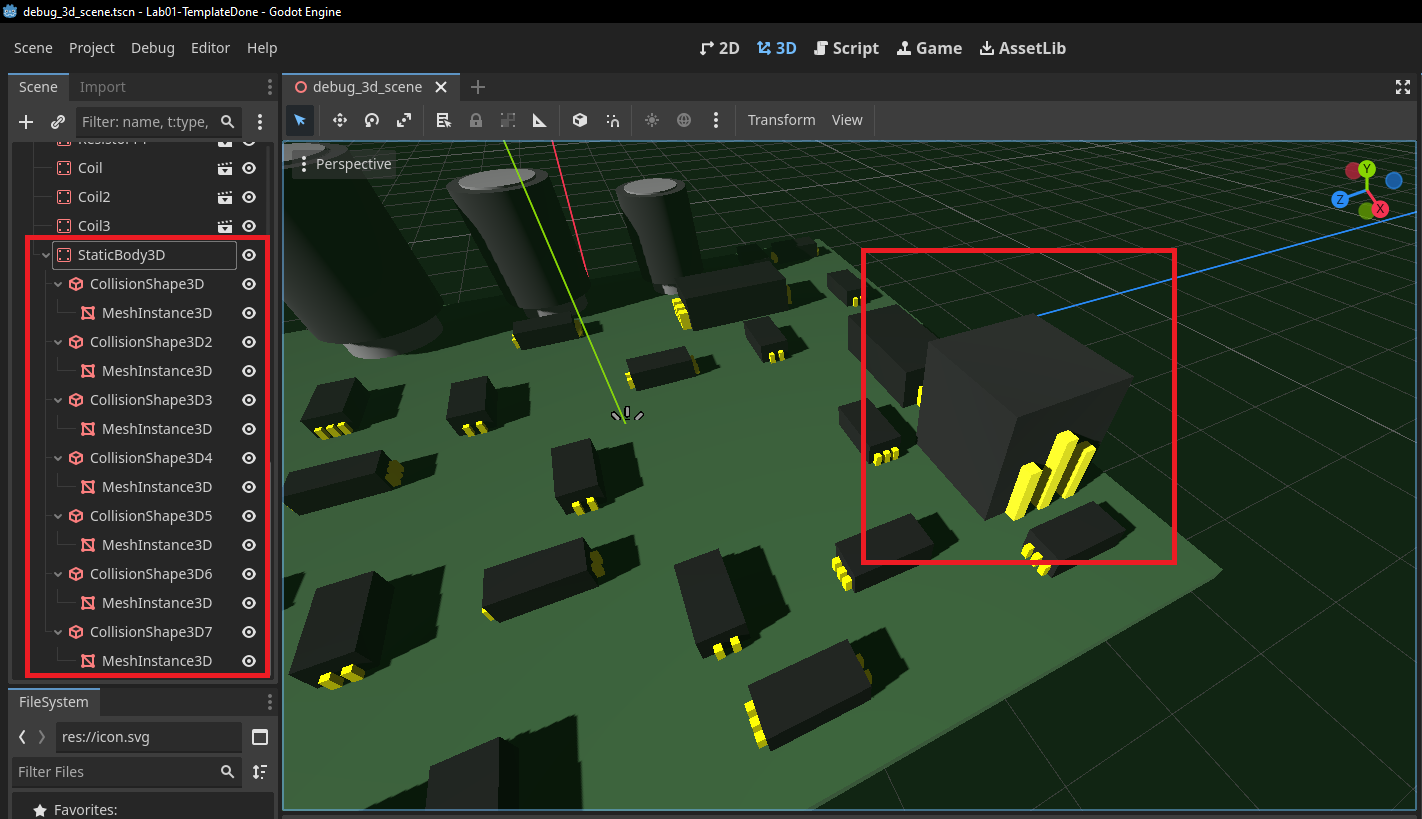
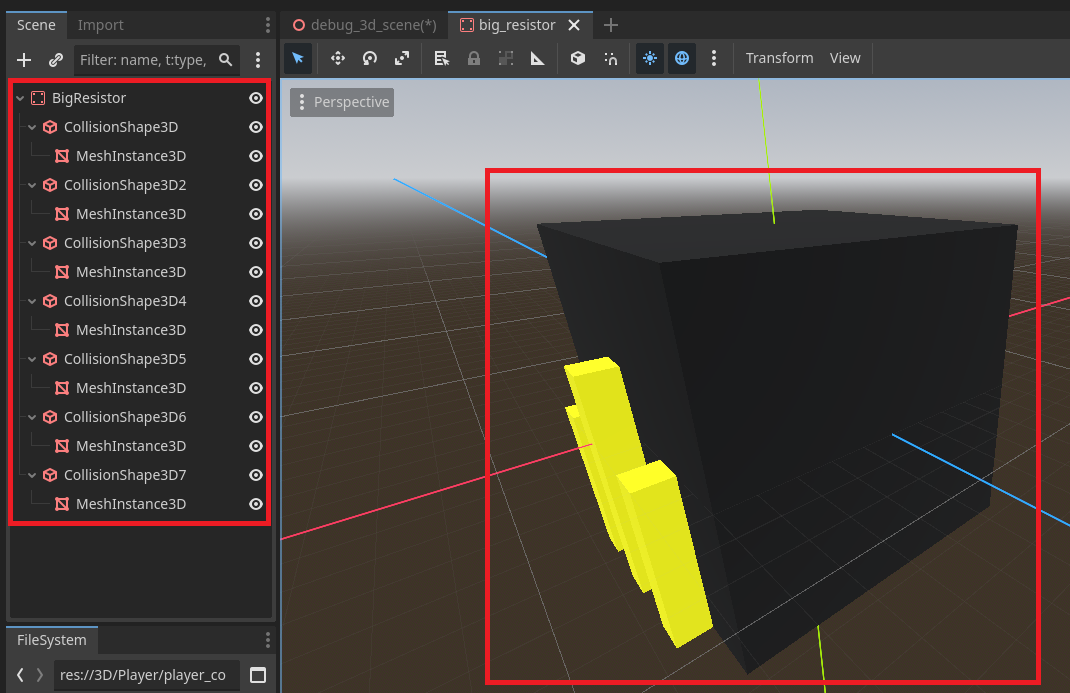
Lab01 - Added intro step and scene save/instantiate

diff --git a/01_Basics/lab01.md b/01_Basics/lab01.md
@@ -7,6 +7,20 @@ Feedback Link: https://google.com
 
 # Lab01 - Basics of Godot and 3D
 
+## Introduction
+Duration: hh:mm:ss
+
+This tutorial should provide a surface level overview of how to use Godot Engine to make games. It won't cover everything there is to cover and will only show a small number of ways how to program or create stuff. I suggest everyone to lookup other more detailed tutorials if a topic interests them in more depth than was covered.
+
+In this first lab we will cover:
+- Downloading the **Godot Engine**
+- Downloading and opening a **Template Project**
+- Overview of the Godot Engine **UI**
+- 3D scene **navigation** in the editor
+- How to **manipulate objects** in the scene
+- How the node **hierarchy** works
+- **Creating** our own object and **saving** it
+
 ## Getting Godot Engine 
 Duration: hh:mm:ss
 
@@ -17,9 +31,9 @@ First we need to download the Godot Engine itself. Each Godot release has two ve
 
 This tutorial will use the standard version using GDScript, which is a python-like scripting language made specifically for Godot. You can use C# and GDScript interchangeably in one project (with some minor restrictions) but this tutorial will be done entirely in GDScript for simplicity.
 
-<aside class="positive">
-To maximize performance of a project you would ideally use C# for complex algorithms (such as pathfinding or other complex calculations) and GDScript for interfacing with the engine and calling engine functions.  
-</aside>
+> aside positive
+> To maximize performance of a project you would ideally use **C#** for complex algorithms (such as pathfinding or other complex calculations) and **GDScript** for interfacing with the engine and calling engine functions.  
+
 
 ### Engine Version
 This tutorial will be done using the engine version `4.4.1` and I suggest you do the same, but any newer version can be used.
@@ -29,10 +43,11 @@ Please download the Godot engine using the following link and place it into a fo
   [Godot 4.4.1](https://godotengine.org/download/archive/4.4.1-stable/)
 </button>
 
-<aside class="negative">
-Beware that the differences in major Godot versions may be significant. So if you plan on using a newer version not all things said in this tutorial might be completely correct.  
-</aside>
+> aside negative
+> Beware that the differences in major Godot versions may be significant. So if you plan on using a newer version not all things said in this tutorial might be completely correct.  
 
+> aside positive
+> However, I recommend using the newest stable version for your own project.
 
 ## The Project
 Duration: hh:mm:ss
@@ -71,9 +86,9 @@ Now with the project open it might a bit overwhelming to orient yourself in the 
     - The 2D/3D tabs shows you the current scene from that perspective
     - The Script tab hosts the in engine IDE for writing scripts.
     - The Game tab has the game window, where you can try the game once you run it.
-    <aside class="negative">
-    Note that 3D scenes cannot be viewed in 2D using these tabs and vice versa.
-    </aside>
+    > aside negative
+    > Note that 3D scenes cannot be viewed in 2D and vice versa by using these tabs .
+
 7. This is the Play panel. We will be mainly interested in the first button, which starts the full game (a set main scene), then the next 2 buttons for control, and the fifth button for playing the current scene.
 
 Don't worry if you feel lost. We will go though all these parts in much more detail later. This is just an overview.
@@ -83,9 +98,8 @@ Don't worry if you feel lost. We will go though all these parts in much more det
 ## 3D Navigation
 Duration: hh:mm:ss
 
-<aside class="negative">
-If you don't see the testing scene in the scene view (the one in the video below) let's open it. In the FileSystem open the folder "3D" -> "Debug" and double click the "debug_3d_scene.tscn" file. 
-</aside>
+> aside negative
+> If you don't see the testing scene in the scene view (the one in the video below) let's open it. In the **FileSystem** open the folder `3D/Debug` and double click the `debug_3d_scene.tscn` file. 
 
 In this section we will learn several ways how to move in the 3D scene view (for 2D it is very similar). Now there are 2 main ways to move in the scene view:
 
@@ -117,9 +131,9 @@ Duration: hh:mm:ss
 
 Let's learn how you can manipulate objects (nodes) in the scene. Find and Select the `Resistor` node in the scene hierarchy on the left.
 
-<aside class="positive">
-If the resistor is out of view or you are far away you can press F to focus on it. 
-</aside>
+> aside positive
+> If the resistor is out of view or you are far away you can press `F` to focus on it. 
+
 
 Now with the `Resistor` selected and in view you can move it, rotate it or scale it. You can do that using several ways.
 
@@ -128,18 +142,18 @@ Now with the `Resistor` selected and in view you can move it, rotate it or scale
 2. Grab the colorful parts of the "Gizmo" seen in the image (2.), then hold left mouse button and drag.
 3. Directly change the coordinates/degrees/scale of the object in the inspector
 
-<aside class="positive">
-You can hold CTRL and SHIFT while manipulating with objects to snap them to a grid.
-</aside>
+> aside positive
+> You can hold `CTRL` or `SHIFT` while manipulating with objects to snap them to a grid.
+
 
 ### Object duplication
 Our scene is looking a little sad so let's add a big more resistors. Select the `Resistor` node and press `CTRL+D` to duplicate. Now repeat this step and move, scale, and rotate it to make the scene look nicer.
 
 Try to use all three ways to manipulate the objects.
 
-<aside class="positive">
-You can select multiple resistors and duplicate them all. So that you don't have to duplicate them one by one.
-</aside>
+> aside positive
+> You can select multiple resistors and duplicate all of them at once. So that you don't have to duplicate them one by one.
+
 
 If you played with the scale of objects you might have noticed that they are no longer placed precisely on the ground. They are either a above/below ground or partway in the ground. You can use:
 - `PAGEDOWN` key to snap an object to the ground.
@@ -187,6 +201,8 @@ This hierarchy also keeps many properties consistent.
 - **Visibility** - if `Player` is hidden all children nodes are also hidden (eye icon next to the node)
 - and many others ...
 
+> aside positive
+> Remember that every node in Godot is a scene and can be loaded as the main scene or created/destroyed at will.
 
 
 ## Add your own object
@@ -234,11 +250,34 @@ The warning tells us that it needs a collision shape. Let's add one so that late
 
 Now you have a cube object with collision. 
 
+### Saving the object as a scene
+Having this `Big Resistor` saved as a reusable object will be useful. Imagine you have 20 of them in a scene and you want to change some property on all of them. You would have to go and individually change every single one. This would be inefficient and time consuming. Let's instead save the `Big Resistor` as a scene.
+
+1. Right-click the `StaticBody3D` of the `Big resistor`, select rename, and give it the **"BigResistor"** name
+2. Right-click it again and select **Save Branch as Scene**
+3. Navigate to `3D/WorldObjects` and press **Save**
+
+Now the `BigResistor` node in the scene no longer has its children visible and has a "movie flap" icon next to it.
+
+![](img/ResistorSceneIcon.png)
+
+If you click on the icon. It opens up in a new tab in the scene view. In this tab the root of the scene is the `StaticBody3D ` named `BigResistor` and all changes made to it here are propagated to all instances of this scene. Meaning if you have two of these resistors scenes in the `debug_3d_scene` and you for example add a new `MeshInstance3D` to it, both of them will have this change.
+
+### Adding a scene to a scene
+Now with the `BigResistor` scene saved you can instantiate/add more copies of it to the debug scene. There are two way:
+1. Simply press the ![](img/ChainIcon.png) button and select it.
+2. Drag and drop the saved scene file `big_resistor.tscn` from the **FileSystem** tab into the scene
+
+> aside negative
+> Don't forget to put the newly created resistor as a child of the `Environment` node. This keeps our scene clean and easy to navigate.
+
 ### Bonus
-If you are up to the challenge you can add the yellow cables to the sides in the same way as the cube. Although keep to a single StaticBody3D node. Here is how my solution looks like.
+If you are up to the challenge, with the `big_resistor.tscn` scene open, you can add the yellow cables with collision shapes to the sides in the same way as we added the main cube. Although keep to a single StaticBody3D node. Here is how my solution looks like:
 
 ![](img/FinalBox.png)
 
+> aside positive
+> Be sure to check the instantiated resistors in the scene to see if they also changed.
 
 ## Recap
 Duration: hh:mm:ss
@@ -249,5 +288,10 @@ Let's look at what we did in this lab.
 - We also learned how to move in the 3D scene and how to manipulate objects in a scene.
 - Then we learned a bit of theory about nodes, the hierarchy of nodes and how changes of a parent propagate to children
 - Lastly we tried adding our own bigger `Resistor` object, where we learned about `StaticBody3D` node, `MeshInstance3D` node, and `CollisionShape3D` node.
+
+If you want to see, how the filled in template looks like you can download it here:
+<button>
+  [Template Done Project](link)
+</button>
 
 In the next lab, we will create a player character a third person camera and finally play the game we are making.
